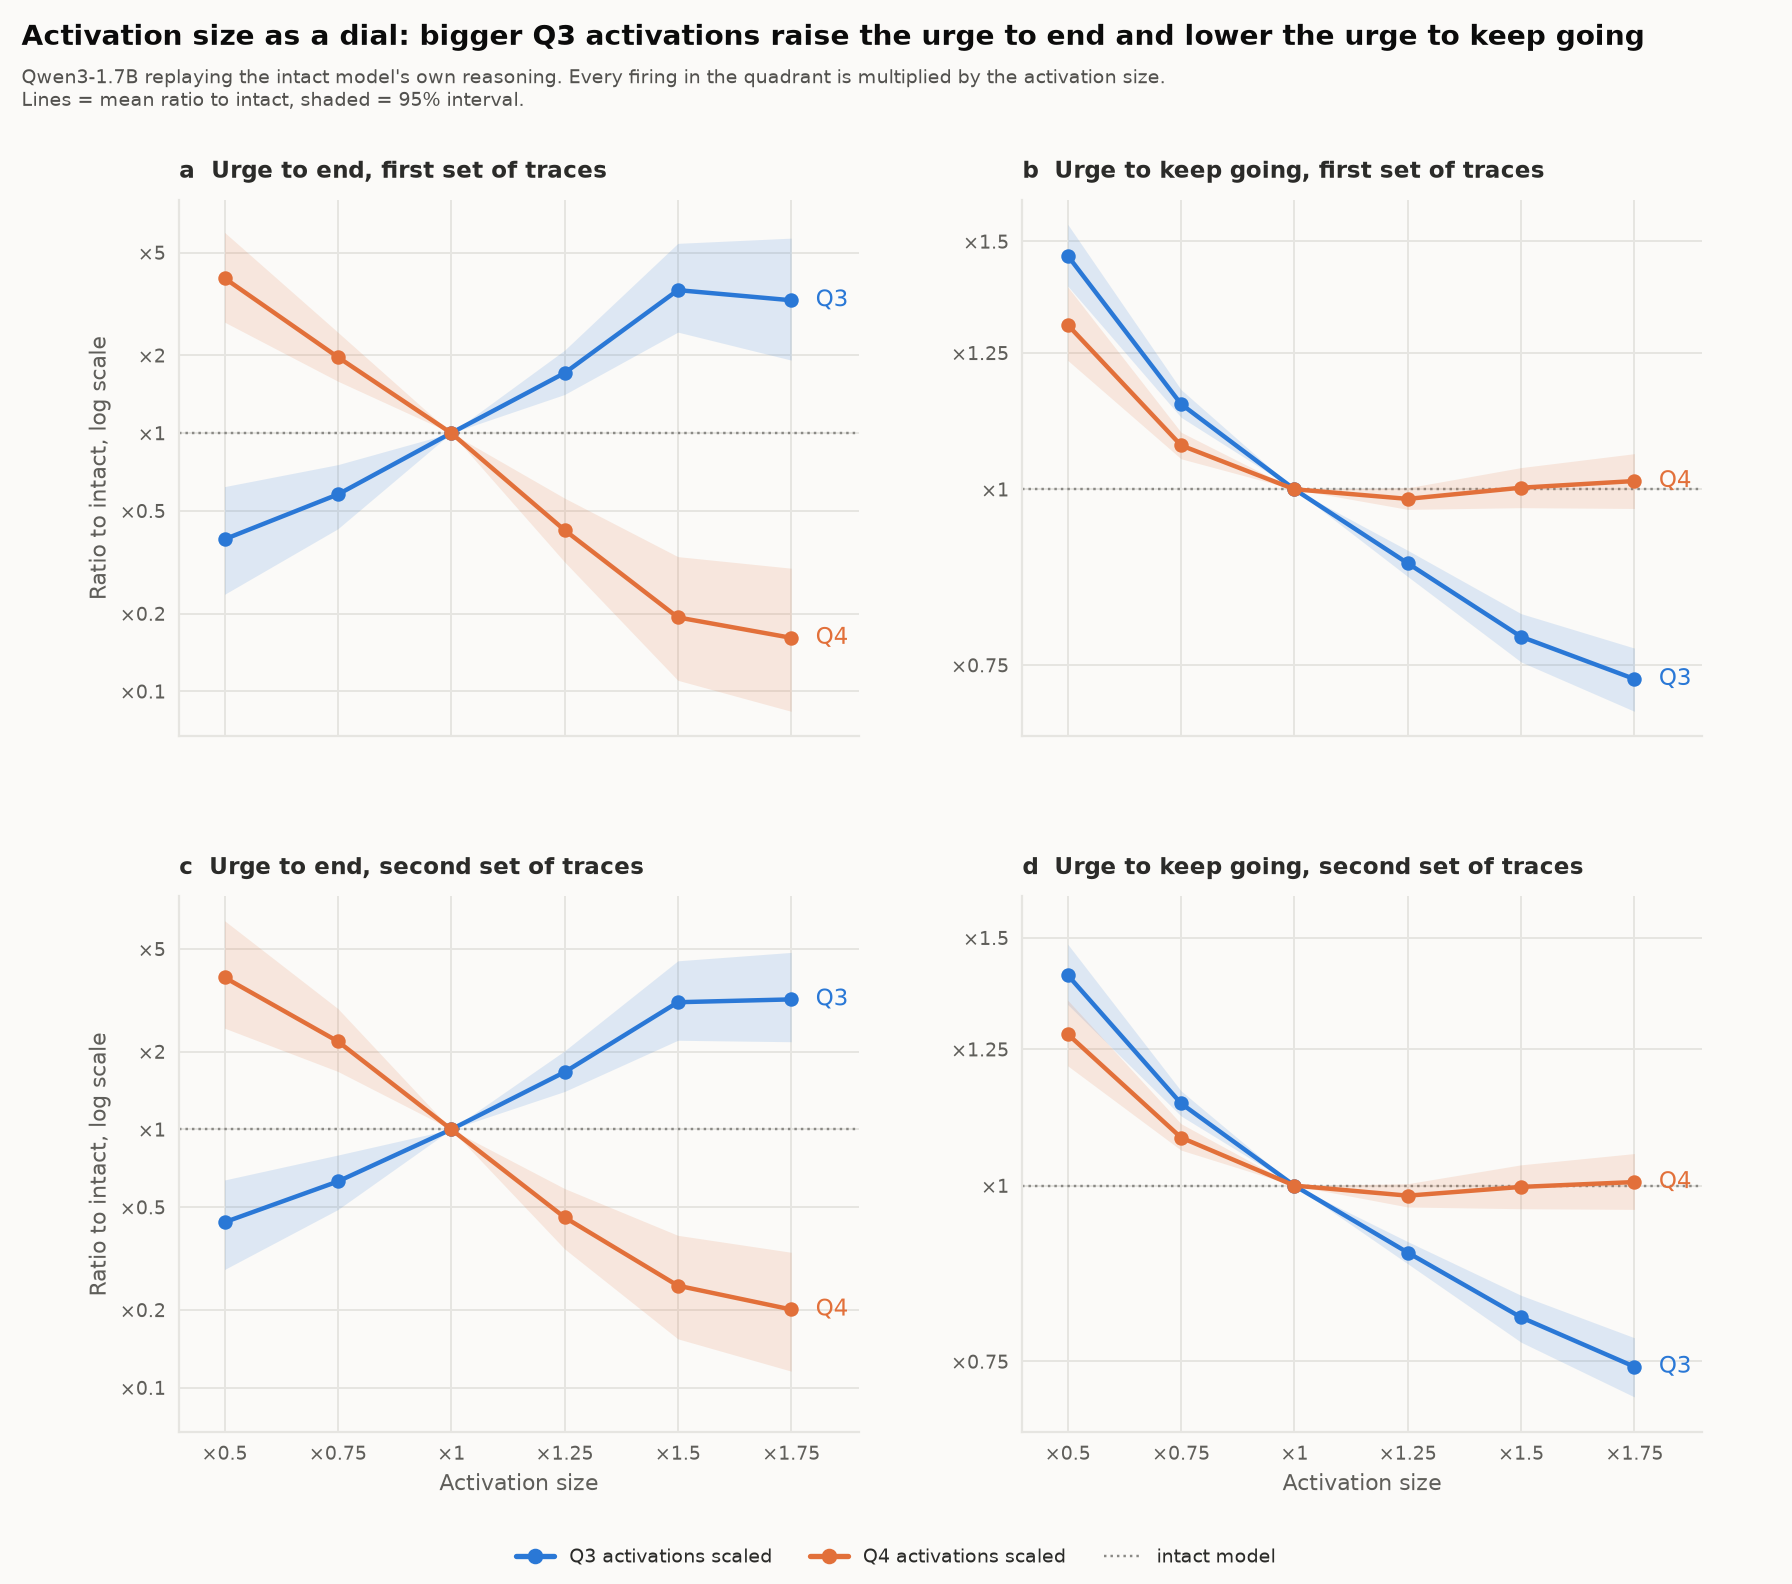
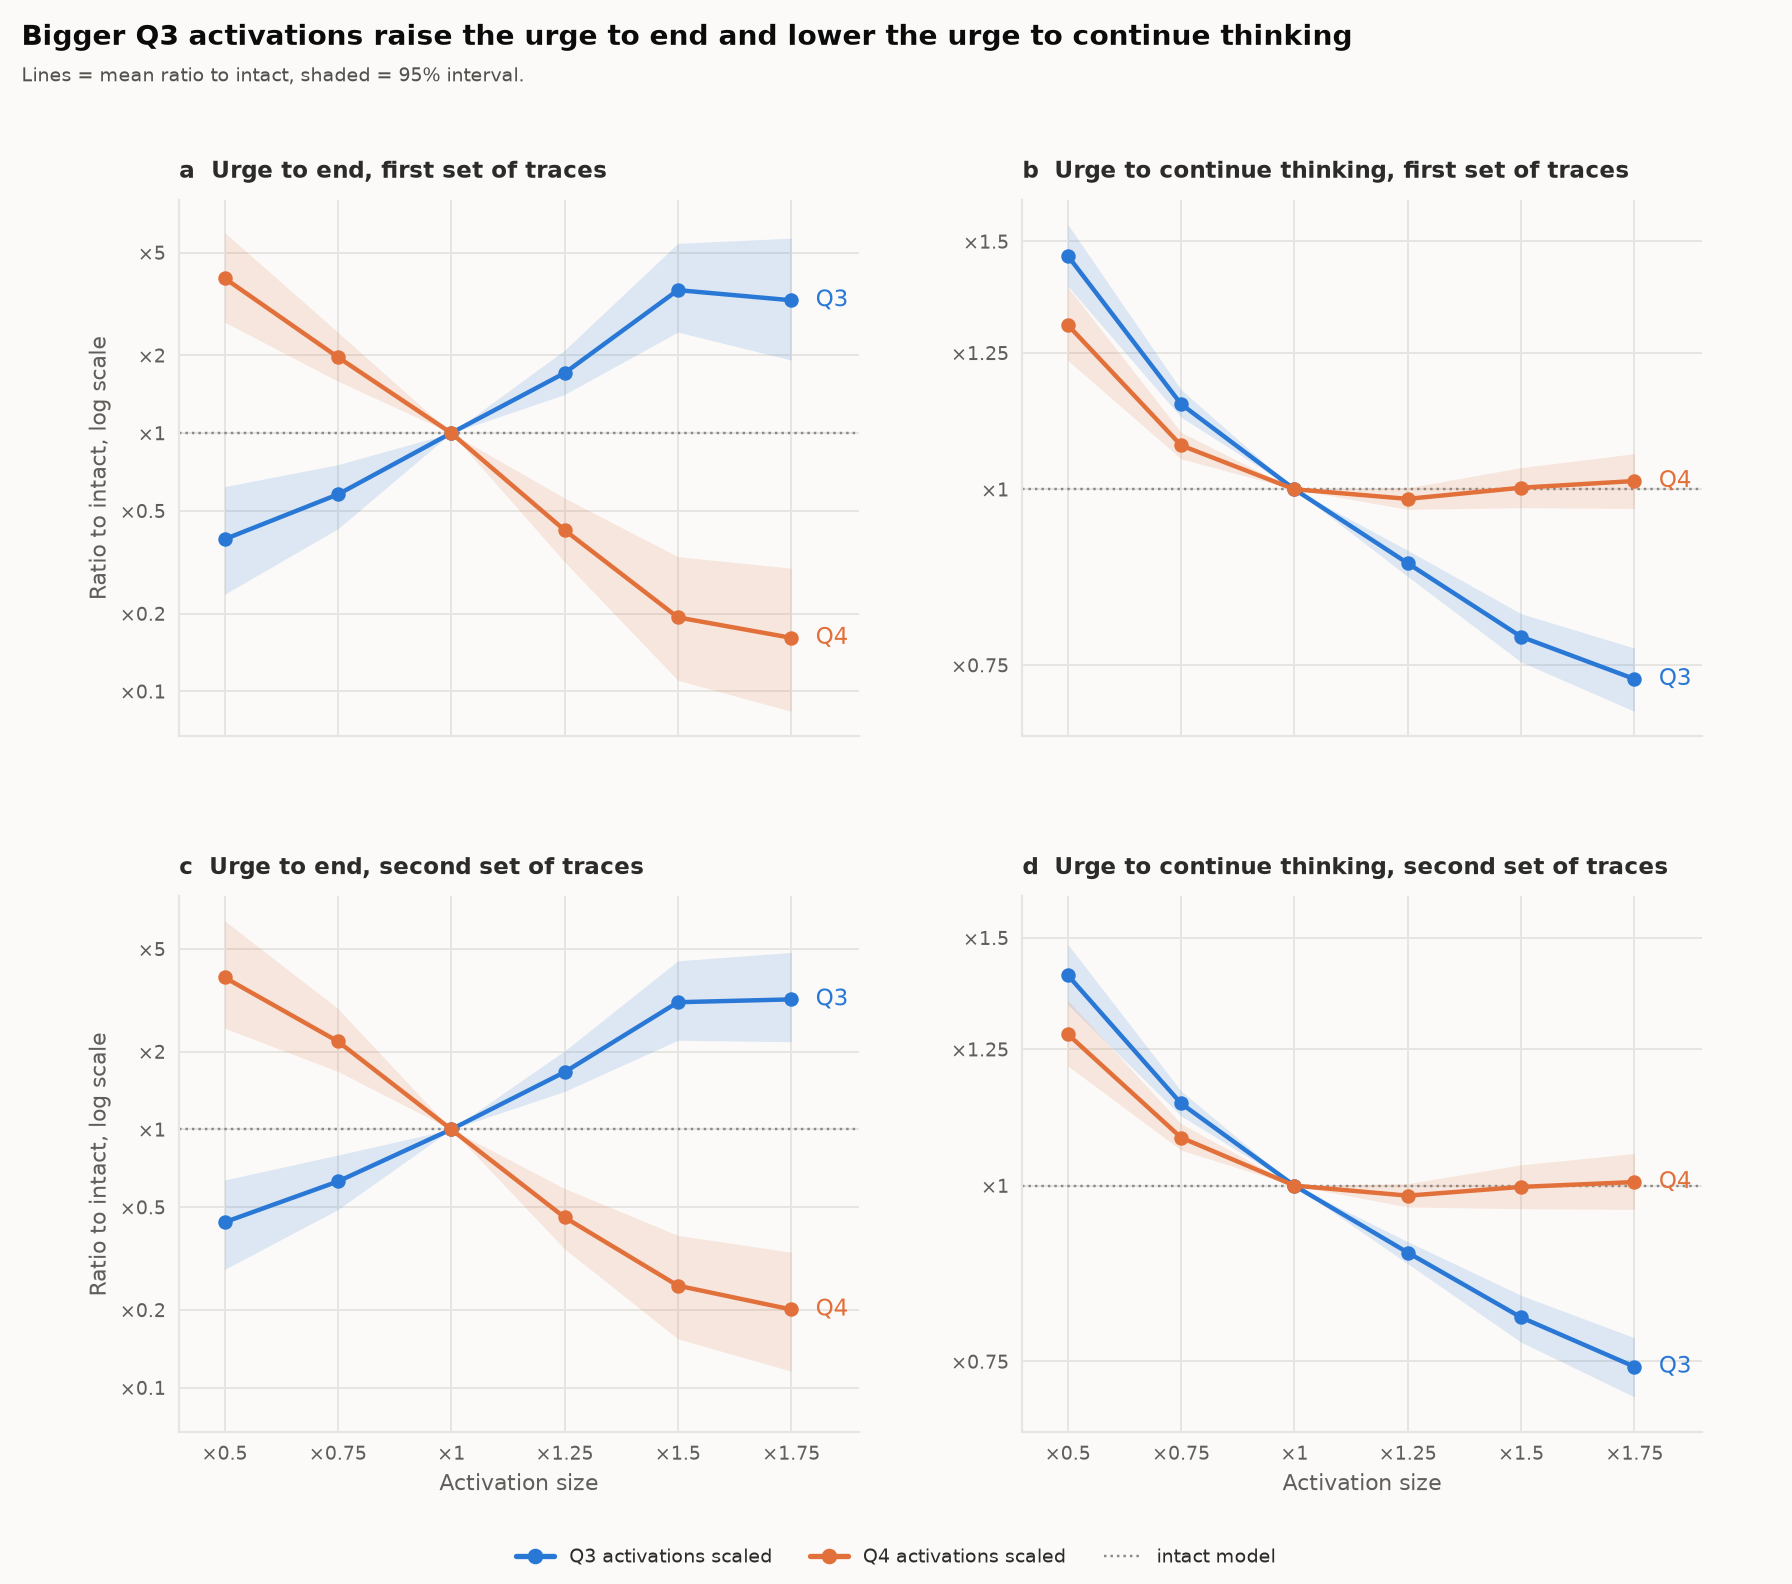
fig5: wording (headline, subtitle, continue thinking)

Changed region(s): [[0.0, 0.0, 0.9062, 0.0619], [0.6562, 0.5259, 0.9375, 0.5568], [0.6562, 0.0928, 0.9062, 0.1237]]

diff --git a/src/figures/make_figures.py b/src/figures/make_figures.py
@@ -503,7 +503,7 @@ def fig5_probe_conclude(folder: Path, out_dir: Path):
                   ("wait", 'b  Urge to say "Wait"', "ratio to intact (log scale)")]
     else:
         panels = [("end_either", "a  Urge to end", "Ratio to intact, log scale"),
-                  ("continue_any", "b  Urge to keep going", "")]
+                  ("continue_any", "b  Urge to continue thinking", "")]
 
     # One row per set of traces: the main set on top, the second set underneath.
     sets = [(main, n_main, "first set of traces")] + ([(rep, n_rep, "second set of traces")] if n_rep else [])
@@ -511,9 +511,8 @@ def fig5_probe_conclude(folder: Path, out_dir: Path):
                              sharex=True, sharey="col", squeeze=False)
     fig.subplots_adjust(left=0.1, right=0.95, top=1 - 1.25 / (1.3 + 4.3 * len(sets)),
                         bottom=0.95 / (1.3 + 4.3 * len(sets)), wspace=0.24, hspace=0.3)
-    add_header(fig, "Activation size as a dial: bigger Q3 activations raise the urge to end and lower the urge to keep going",
-               "Qwen3-1.7B replaying the intact model's own reasoning. Every firing in the quadrant is multiplied "
-               "by the activation size.\nLines = mean ratio to intact, shaded = 95% interval.")
+    add_header(fig, "Bigger Q3 activations raise the urge to end and lower the urge to continue thinking",
+               "Lines = mean ratio to intact, shaded = 95% interval.")
     letters = iter("abcdefgh")
     for row, (data, n_set, set_name) in zip(grid, sets):
         for ax, (metric, title, ylabel) in zip(row, panels):
